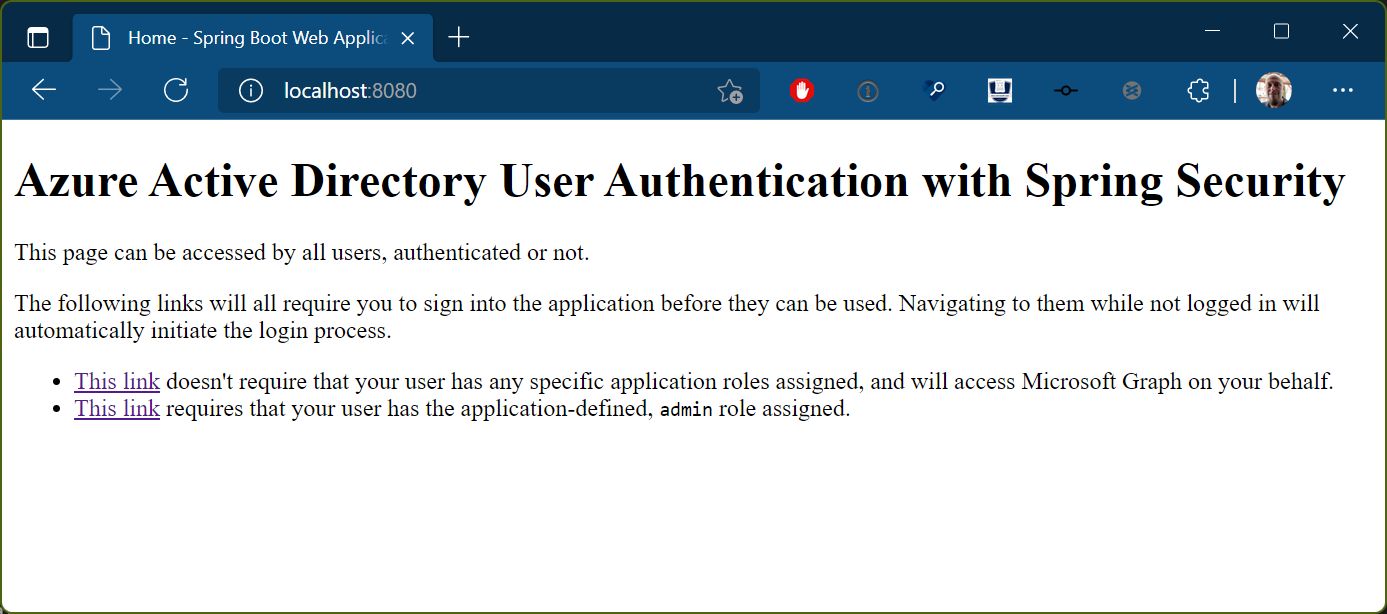
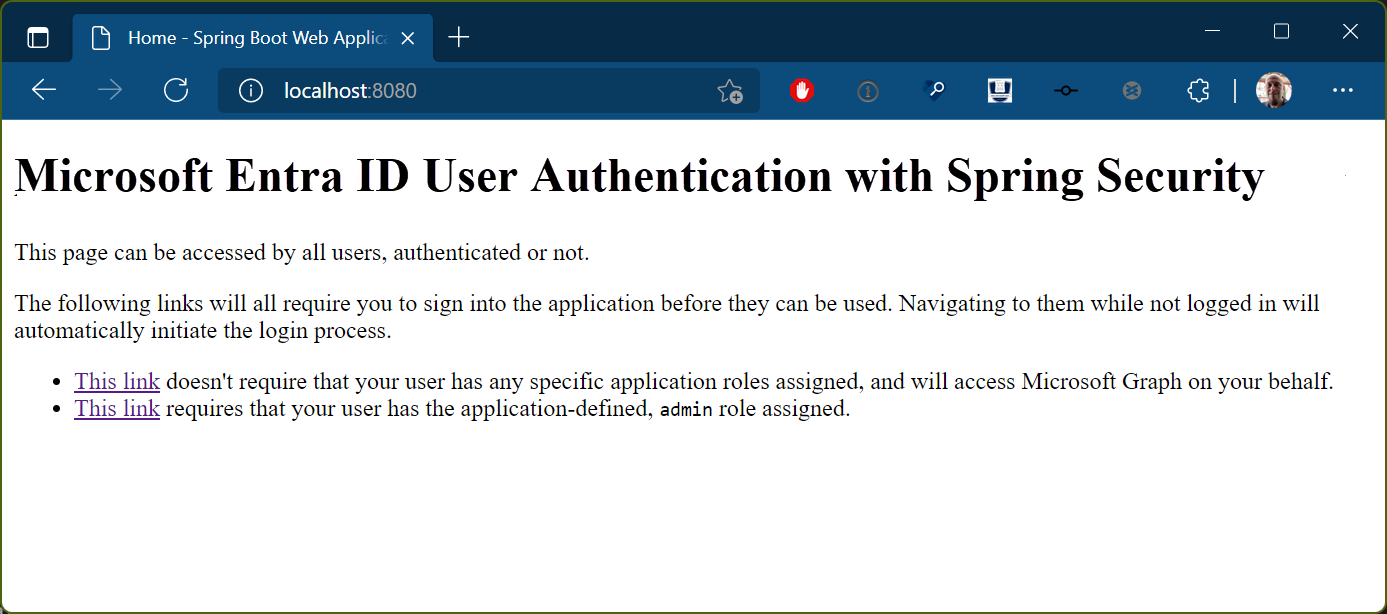
[Security Sprint] GUID sweep (#20)
* GUID scrub READMEs, non-images

* image scrub

* Entra rebrand

Changed region(s): [[0.0, 0.2476, 0.9611, 0.3404]]

diff --git a/access-protected-api/README.md b/access-protected-api/README.md
@@ -29,12 +29,12 @@ This Java Spring Boot web API uses the Microsoft Authentication Library (MSAL) f
 $ curl http://localhost:8080/api/application
 {
   "@odata.context": "https://graph.microsoft.com/v1.0/$metadata#applications/$entity",
-  "id": "04487cab-91cf-46d8-b4ed-1a428388bdd2",
-  "appId": "de5dcdc6-8dfe-4048-aff6-c615dea4ee3d",
+  "id": "00aa00aa-bb11-cc22-dd33-44ee44ee44ee",
+  "appId": "00001111-aaaa-2222-bbbb-3333cccc4444",
   "displayName": "java-api",
   "description": null,
   "groupMembershipClaims": null,
-  "identifierUris": ["api://de5dcdc6-8dfe-4048-aff6-c615dea4ee3d"],
+  "identifierUris": ["api://00001111-aaaa-2222-bbbb-3333cccc4444"],
   "isDeviceOnlyAuthSupported": null,
   "isFallbackPublicClient": null,
   "notes": null,
@@ -116,12 +116,12 @@ For example, if you use curl and everything worked, the sample you should receiv
 $ curl http://localhost:8080/api/application
 {
   "@odata.context": "https://graph.microsoft.com/v1.0/$metadata#applications/$entity",
-  "id": "04487cab-91cf-46d8-b4ed-1a428388bdd2",
-  "appId": "de5dcdc6-8dfe-4048-aff6-c615dea4ee3d",
+  "id": "00aa00aa-bb11-cc22-dd33-44ee44ee44ee",
+  "appId": "00001111-aaaa-2222-bbbb-3333cccc4444",
   "displayName": "java-api",
   "description": null,
   "groupMembershipClaims": null,
-  "identifierUris": ["api://de5dcdc6-8dfe-4048-aff6-c615dea4ee3d"],
+  "identifierUris": ["api://00001111-aaaa-2222-bbbb-3333cccc4444"],
   "isDeviceOnlyAuthSupported": null,
   "isFallbackPublicClient": null,
   "notes": null,
@@ -142,7 +142,7 @@ This Java web API uses the Spring Boot web framework and has a single route that
 
 The web API uses MSAL for Java to get an access token for Microsoft Graph by using the OAuth 2.0 client credentials flow. That is, this web API (a confidential client) uses the credentials in its app registration (and thus its own identity) when requesting the access token for Microsoft Graph. If its call to the Microsoft Graph API was successful, the Java web API then returns the results to its anonymous caller.
 
-The web API requires no specific Microsoft Graph API permissions because applications registered with Microsoft Entra always have permission to access their own record, or *object*, in Microsoft Graph. To access other Microsoft Graph API endpoints, however, permissions for those endpoints must be added to the web API's registration in Microsoft Entra.
+The web API requires no specific Microsoft Graph API permissions because applications registered with Microsoft Entra ID always have permission to access their own record, or *object*, in Microsoft Graph. To access other Microsoft Graph API endpoints, however, permissions for those endpoints must be added to the web API's registration in Microsoft Entra.
 
 ## Reporting problems
 

diff --git a/access-protected-api-obo/README.md b/access-protected-api-obo/README.md
@@ -27,17 +27,17 @@ This Java Spring Boot web API uses the Microsoft Authentication Library (MSAL) f
 $ curl http://localhost:8080/me -H "Authorization: Bearer {valid-access-token}"
 {
   "@odata.context": "https://graph.microsoft.com/v1.0/$metadata#users/$entity",
-  "businessPhones": ["+1 (999) 5551001"],
+  "businessPhones": ["+1 (000) 111222"],
   "displayName": "Contoso Employee",
   "givenName": "Contoso",
   "jobTitle": "Worker",
   "mail": "cemployee@contoso.com",
-  "mobilePhone": "1 999-555-1001",
+  "mobilePhone": "1 000-111-2222",
   "officeLocation": "Contoso Plaza/F30",
   "preferredLanguage": null,
   "surname": "Employee",
   "userPrincipalName": "contoso_employee@contoso.com",
-  "id": "e3a49d8b-d849-48eb-9947-37c1f9589812"
+  "id": "00aa00aa-bb11-cc22-dd33-44ee44ee44ee"
 }
 ```
 
@@ -109,7 +109,7 @@ For example, if you use curl and everything worked, the sample you should receiv
 $ curl http://localhost:8080/me -H "Authorization: Bearer {VALID-ACCESS-TOKEN}"
 {
   "@odata.context": "https://graph.microsoft.com/v1.0/$metadata#users/$entity",
-  "businessPhones": ["+1 (999) 5551001"],
+  "businessPhones": ["+1 (000) 1112222"],
   "displayName": "Contoso Employee",
   "givenName": "Contoso",
   "jobTitle": "Worker",
@@ -119,7 +119,7 @@ $ curl http://localhost:8080/me -H "Authorization: Bearer {VALID-ACCESS-TOKEN}"
   "preferredLanguage": null,
   "surname": "Employee",
   "userPrincipalName": "contoso_employee@contoso.com",
-  "id": "e3a49d8b-d849-48eb-9947-37c1f9589812"
+  "id": "00aa00aa-bb11-cc22-dd33-44ee44ee44ee"
 }
 ```
 

diff --git a/cli-access-protected-api/README.md b/cli-access-protected-api/README.md
@@ -24,9 +24,9 @@ user@console:~$ mvn exec:java -Dexec.mainClass=com.contoso.cli.App
 Graph API call result:
 {
   "@odata.context": "https://graph.microsoft.com/v1.0/$metadata#applications/$entity",
-  "id": "00000000-0000-0000-0000-000000000000",
+  "id": 00aa00aa-bb11-cc22-dd33-44ee44ee44ee",
   "deletedDateTime": null,
-  "appId": "00000000-0000-0000-0000-000000000000",
+  "appId": "00001111-aaaa-2222-bbbb-3333cccc4444",
   "applicationTemplateId": null,
   "disabledByMicrosoftStatus": null,
   "createdDateTime": "2021-11-11T20:57:247",
@@ -120,9 +120,9 @@ If everything worked, the sample app should produce output similar to this:
 Graph API call result:
 {
   "@odata.context": "https://graph.microsoft.com/v1.0/$metadata#applications/$entity",
-  "id": "00000000-0000-0000-0000-000000000000",
+  "id": "00aa00aa-bb11-cc22-dd33-44ee44ee44ee",
   "deletedDateTime": null,
-  "appId": "00000000-0000-0000-0000-000000000000",
+  "appId": "00001111-aaaa-2222-bbbb-3333cccc4444",
   "applicationTemplateId": null,
   "disabledByMicrosoftStatus": null,
   "createdDateTime": "2021-11-11T20:57:247",

diff --git a/android-kotlin/README.md b/android-kotlin/README.md
@@ -59,7 +59,7 @@ Open the [_AndroidManifest.xml_](app/src/main/AndroidManifest.xml) file and modi
 android:path="/<signature hash>"
 ```
 
-Open the [_msal_auth_config.json_](app/src/main/res/raw/msal_auth_config.json) file and modify the Microsoft Entra ID configuration property using the values from your [app's registration in the Microsoft Entra admin center](https://learn.microsoft.com/azure/active-directory/develop/quickstart-register-app).
+Open the [_msal_auth_config.json_](app/src/main/res/raw/msal_auth_config.json) file and modify the Microsoft Entra configuration property using the values from your [app's registration in the Microsoft Entra admin center](https://learn.microsoft.com/azure/active-directory/develop/quickstart-register-app).
 
 ```json
 "client_id": "Enter_the_Application_Id_Here",

diff --git a/README.md b/README.md
@@ -13,4 +13,4 @@ This repo contains the following code to directly support the product docs:
 - [Microsoft identity platform product documentation](https://docs.microsoft.com/azure/active-directory/develop/)
 - [Microsoft Authentication Library (MSAL) documentation](https://docs.microsoft.com/azure/active-directory/develop/msal-overview)
 - [Microsoft Authentication Library for Java](https://github.com/AzureAD/microsoft-authentication-library-for-java)
-- [Azure AD Spring Boot Starter client library for Java](https://github.com/Azure/azure-sdk-for-java/tree/main/sdk/spring/azure-spring-boot-starter-active-directory)
+- [Microsoft Entra Spring Boot Starter client library for Java](https://github.com/Azure/azure-sdk-for-java/tree/main/sdk/spring/azure-spring-boot-starter-active-directory)
